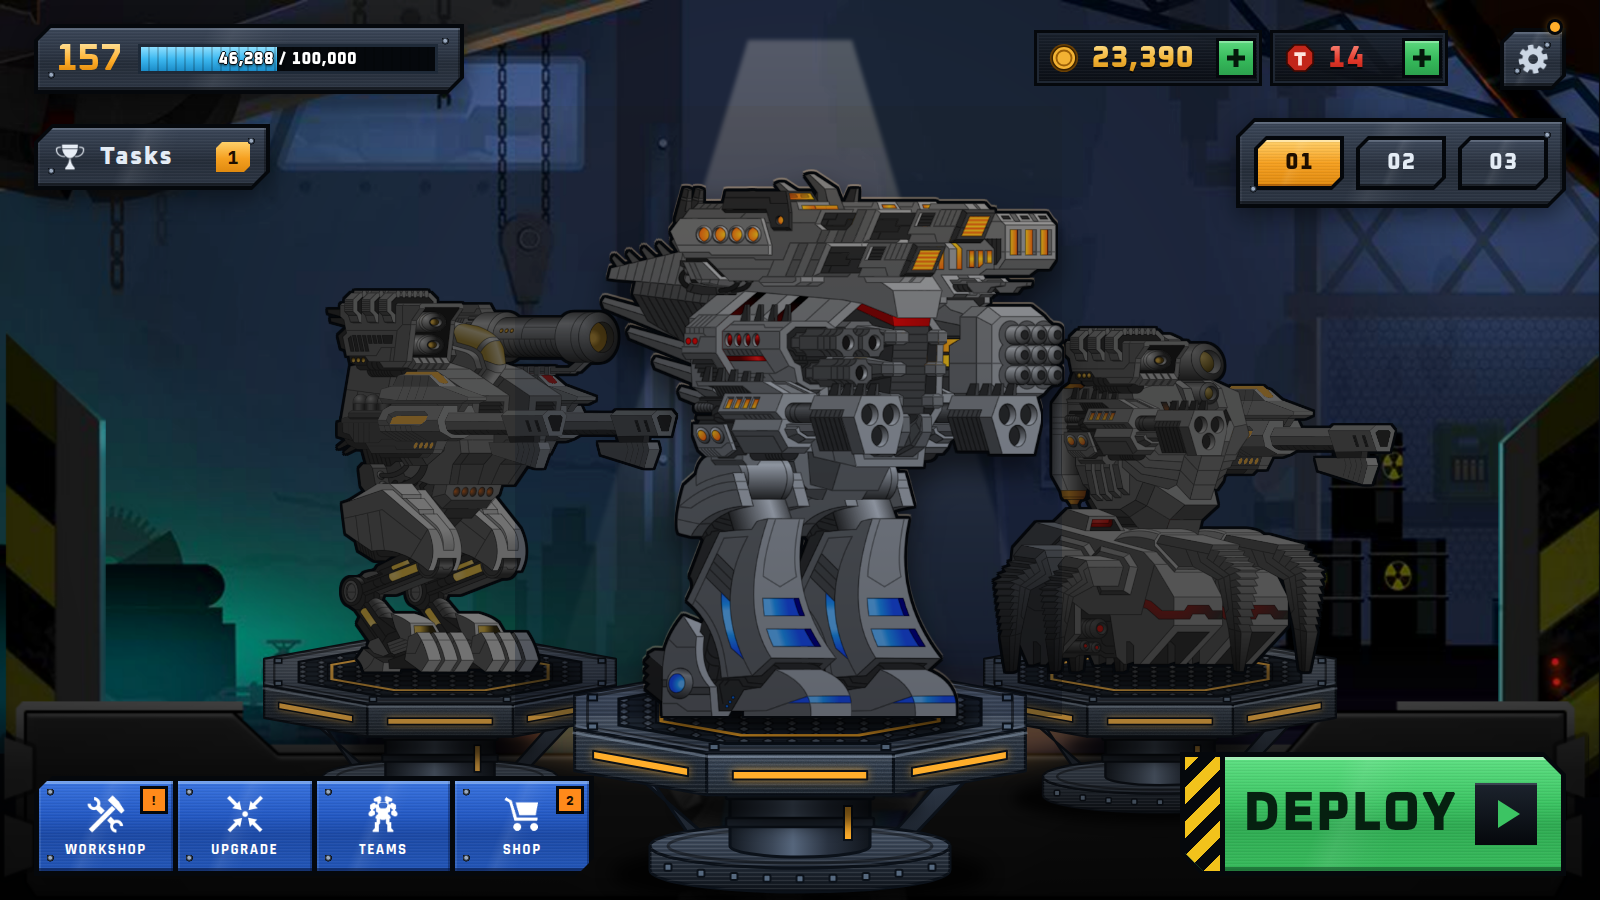
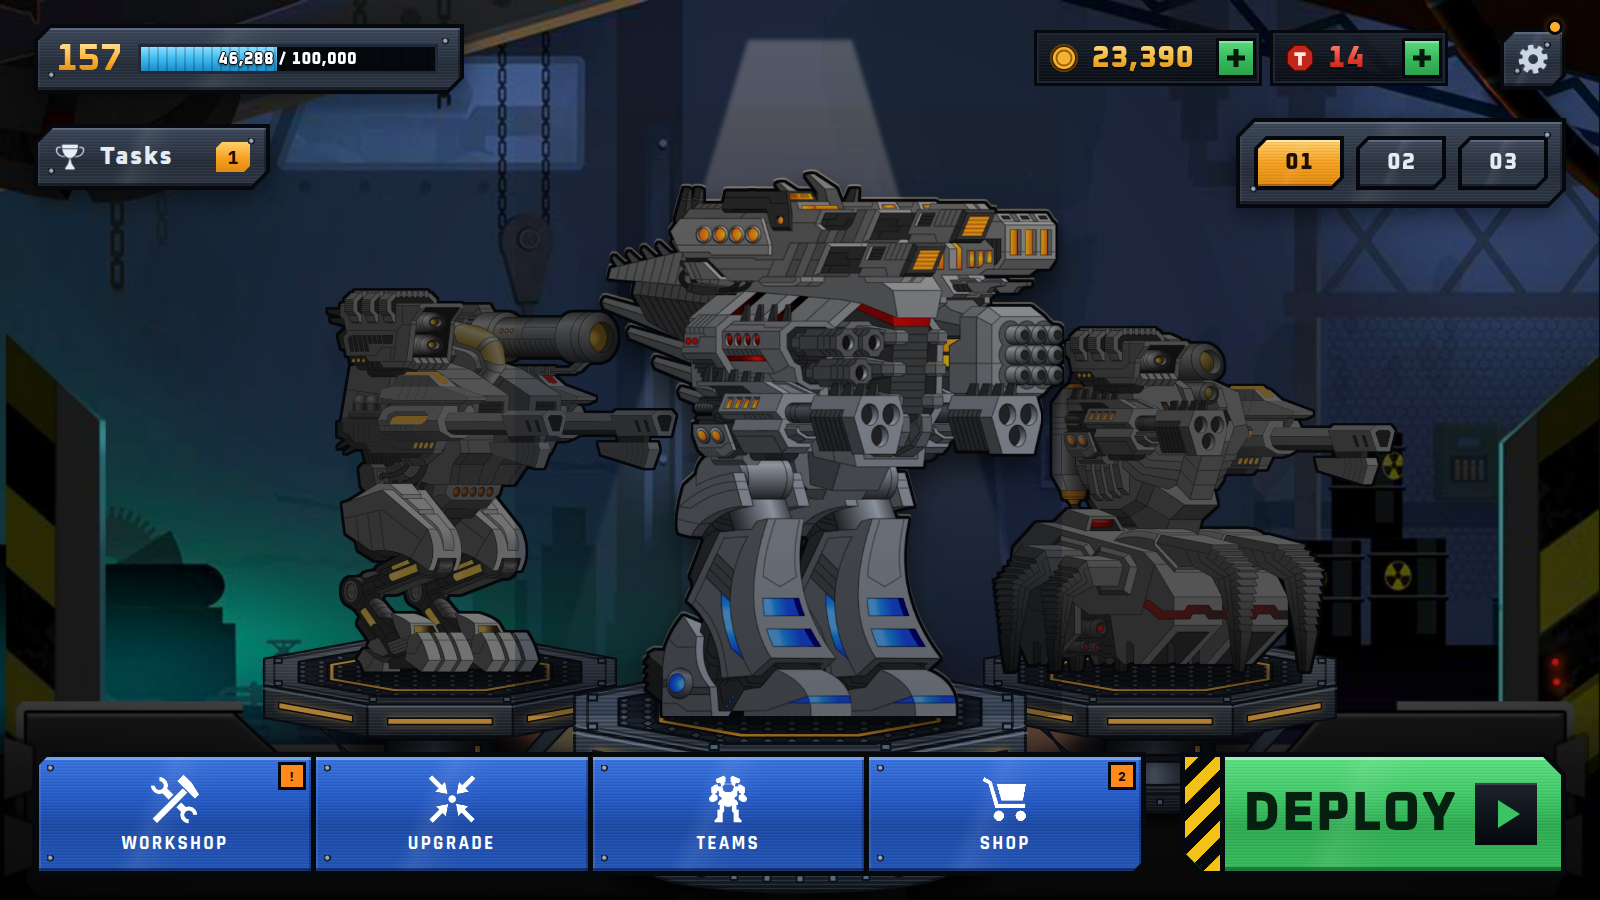
Widen the nav rack to reach Deploy
Rack spans x 34-1146 at Deploy's height; bigger icons and labels.

Claude-Session: https://claude.ai/code/session_016EMeU7WbdybdkHaQ4QiAx5

Changed region(s): [[0.0, 0.8089, 0.7188, 0.9956]]

diff --git a/ui/mocks/H-bay.html b/ui/mocks/H-bay.html
@@ -70,13 +70,13 @@ canvas{position:absolute;left:0;top:0;width:1600px;height:900px}
 .readout .plus{width:40px;height:40px;background:#39c45f;position:relative;box-shadow:inset 0 0 0 3px #05080c}
 .readout .plus::before,.readout .plus::after{content:"";position:absolute;left:50%;top:50%;background:#05180b;transform:translate(-50%,-50%)}
 .readout .plus::before{width:18px;height:5px}.readout .plus::after{width:5px;height:18px}
-.rack{position:absolute;left:34px;top:776px;width:560px;height:100px;z-index:8;padding:5px;background:#05080c;
+.rack{position:absolute;left:34px;top:752px;width:1112px;height:124px;z-index:8;padding:5px;background:#05080c;
   clip-path:polygon(18px 0,100% 0,100% calc(100% - 18px),calc(100% - 18px) 100%,0 100%,0 18px);display:flex;gap:5px}
 .slot{flex:1;display:flex;flex-direction:column;align-items:center;justify-content:center;gap:6px;background:#1c4fb4;color:#fff;position:relative}
 .slot:nth-child(odd){background:#1a48a5}
 .slot::before{content:"";position:absolute;left:0;right:0;top:0;height:3px;background:rgba(170,205,255,.45)}
-.slot .mask{width:40px;height:40px;background:#fff}
-.slot span{font:700 15px var(--f-label);letter-spacing:.1em;text-transform:uppercase}
+.slot .mask{width:52px;height:52px;background:#fff}
+.slot span{font:700 19px var(--f-label);letter-spacing:.12em;text-transform:uppercase}
 .slot .pip{position:absolute;right:8px;top:8px;min-width:22px;height:22px;padding:0 5px;background:#ff8a1a;color:#1d0e00;font:800 13px var(--f-num);display:flex;align-items:center;justify-content:center;box-shadow:0 0 0 3px #05080c}
 .deploy{position:absolute;left:1180px;top:752px;width:386px;height:124px;z-index:8;padding:5px;background:#05080c;
   clip-path:polygon(0 0,calc(100% - 22px) 0,100% 22px,100% 100%,22px 100%,0 calc(100% - 22px))}
